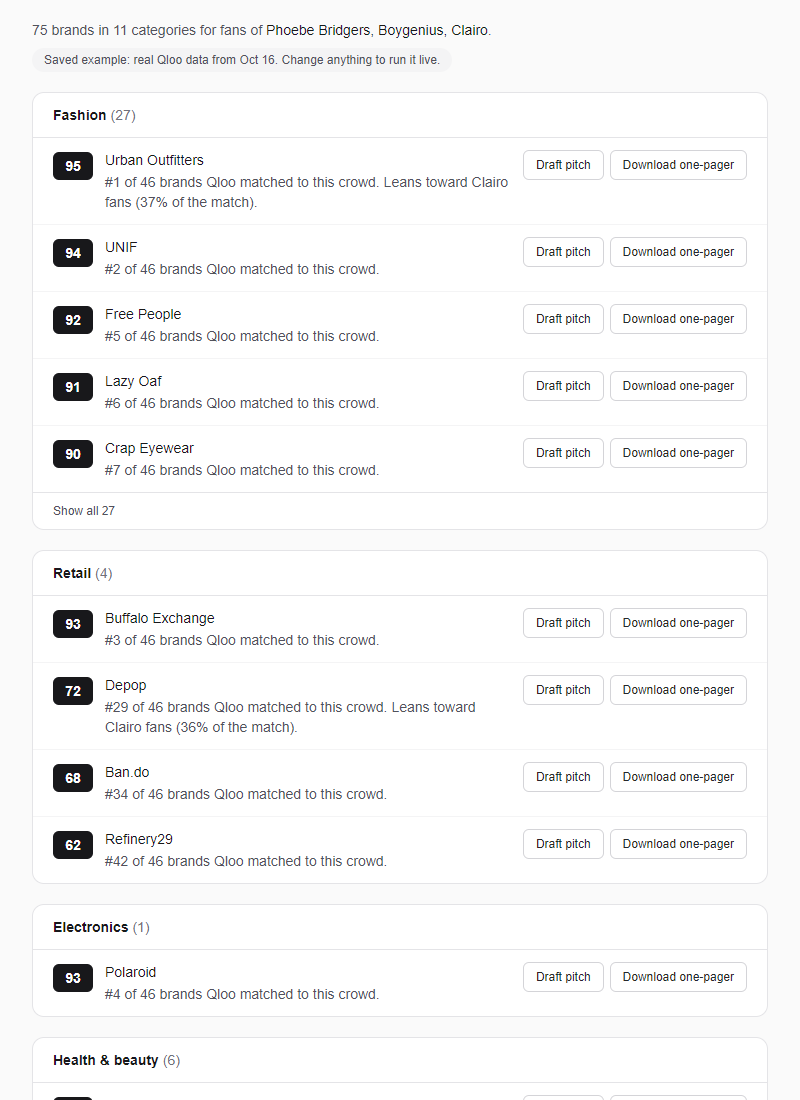
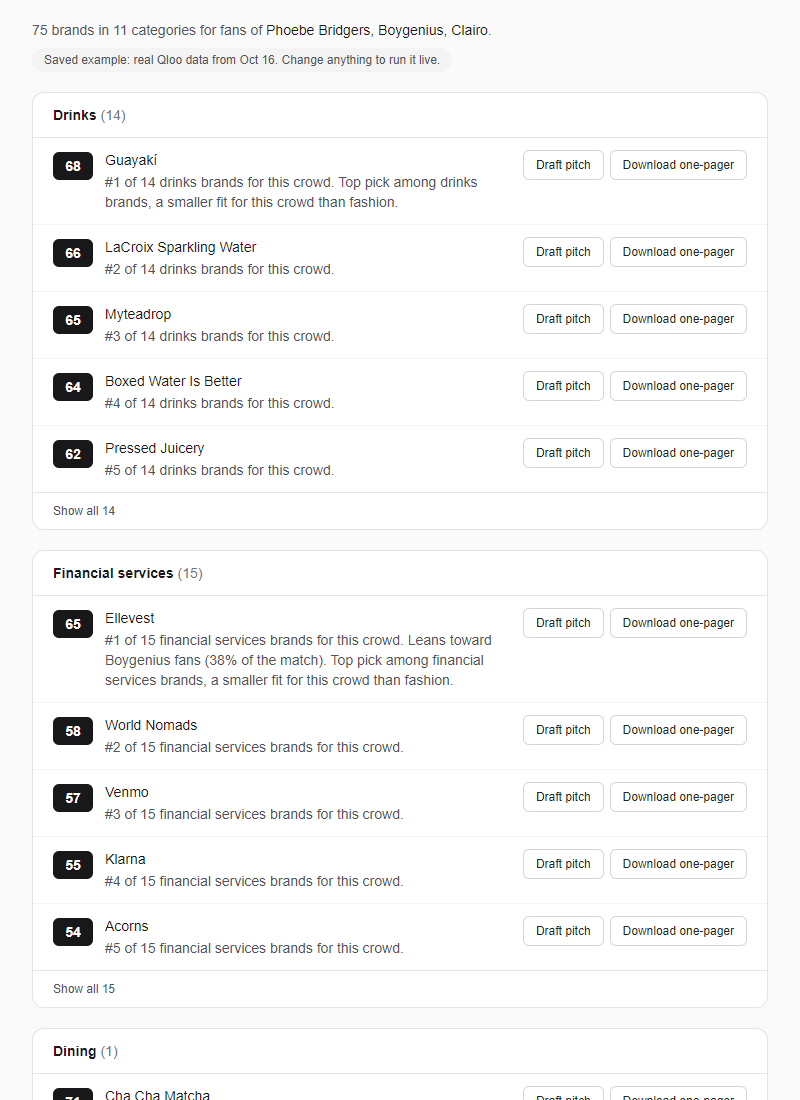
Nearby pitch for places without taste data; main sponsor categories first
- "Draft pitch" is back for places with little taste data. It sends the
  place's distance (brand.nearbyKm) and the pitch, template and DeepSeek
  prompt alike, talks about being close by, the crowd and the offer, with
  no Qloo or taste claim. The venue stays [venue]: the distance is from the
  search center, not the venue. Subject: "a sponsor spot just down the road".
- When every place has little taste data, the section subtitle no longer
  says "this crowd already goes to".
- Brand cards: Drinks, Beer, Spirits, Wine & spirits, Financial services,
  Dining, Fashion, Retail first, then the rest by best score, then Mobile
  app, Website, Entertainment, then Other. No brand is dropped. The
  "smaller fit" note still compares with the highest-scoring category.

diff --git a/src/lib/pitch.ts b/src/lib/pitch.ts
@@ -18,6 +18,12 @@ export interface PitchInput {
     reasonText: string;
     /** A national brand, or a local business near the event (cafe, shop, bar). */
     kind: "brand" | "place";
+    /**
+     * For a local place Qloo has little taste data for: its distance from the
+     * search center, km. Then the pitch makes no taste claim at all; it pitches
+     * being nearby. Null for everything else.
+     */
+    nearbyKm: number | null;
   };
   artists: string[];
   genre: string | null;
@@ -39,6 +45,11 @@ export interface PitchDraft {
   ms: number;
 }
 
+/** 0.6 -> "0.6 km", 12.4 -> "12 km". */
+function formatKm(km: number): string {
+  return `${km < 10 ? km.toFixed(1) : Math.round(km)} km`;
+}
+
 /** "Cafes" -> "cafe", "Clothing stores" -> "clothing store". */
 function placeNoun(categoryLabel: string): string {
   return categoryLabel.toLowerCase().replace(/s$/, "");
@@ -55,7 +66,9 @@ function facts(input: PitchInput): string[] {
     input.brand.kind === "place"
       ? `Sponsor: ${input.brand.name}, a local ${placeNoun(input.brand.categoryLabel)} near the event`
       : `Brand: ${input.brand.name} (${input.brand.categoryLabel})`,
-    `Why it fits, from Qloo taste data: ${input.brand.reasonText}`,
+    input.brand.nearbyKm !== null
+      ? `No taste match: Qloo has little taste data for this business. It is about ${formatKm(input.brand.nearbyKm)} from the center of ${input.city ?? "the city"}. Do not say or suggest that the crowd likes it.`
+      : `Why it fits, from Qloo taste data: ${input.brand.reasonText}`,
   ];
   if (input.eventName) lines.push(`Event name: ${input.eventName}`);
   if (input.city) lines.push(`City: ${input.city}`);
@@ -76,6 +89,7 @@ Rules:
 - Lead with why this brand fits this crowd, using the ranking given, and say it comes from Qloo taste data. Describe the "this crowd" as fans of the line-up.
 - Offer one or two concrete ways to take part, written as options in square brackets for the organizer to edit.
 - If the sponsor is a local business, say it is near the event and lead with in-kind options, such as [a discount for our attendees] or [your products at our table].
+- If the facts say "No taste match", do not mention Qloo or taste data and do not say or suggest that the crowd likes the business. Lead with how close it is, the crowd size and age, and what the sponsor gets.
 - End with one clear ask: a 15-minute call.
 - Under 170 words. Plain, friendly and specific. No hype, no emojis, no exclamation marks.
 
@@ -103,12 +117,18 @@ function templateDraft(input: PitchInput): { subject: string; body: string } {
     ? `We'd like to offer ${brand} [a table at the event] in return for [a discount for our attendees] or [your products for our crew]. Details are flexible.`
     : `We'd like to offer ${brand} [a booth or sampling spot] and [logo placement on our posters and social posts]. Details are flexible.`;
 
+  // No taste data: pitch being close by, never a taste match.
+  const why =
+    input.brand.nearbyKm !== null
+      ? `I'm writing to ${brand} because you're close by: about ${formatKm(input.brand.nearbyKm)} from the center of ${input.city ?? "[city]"}. Our venue is [venue].`
+      : `I'm writing to ${brand} specifically. Qloo's taste data shows that ${crowd} already like ${yours}: ${brand} ${rankClause(input.brand.reasonText)}`;
+
   const body = [
     "Hi [contact name],",
     "",
     `I'm organizing ${event}, ${input.admission?.phrase ?? "a show"} ${about.join(" ") || "[where and how big]"}${audience}.${lineUp}`,
     "",
-    `I'm writing to ${brand} specifically. Qloo's taste data shows that ${crowd} already like ${yours}: ${brand} ${rankClause(input.brand.reasonText)}`,
+    why,
     "",
     offer,
     "",
@@ -119,7 +139,11 @@ function templateDraft(input: PitchInput): { subject: string; body: string } {
     "[phone or email]",
   ].join("\n");
 
-  return { subject: `${brand} x ${event}: a crowd that already likes you`, body };
+  const subject =
+    input.brand.nearbyKm !== null
+      ? `${brand} x ${event}: a sponsor spot just down the road`
+      : `${brand} x ${event}: a crowd that already likes you`;
+  return { subject, body };
 }
 
 /** Turns the first sentence of reasonText into "ranks #2 of 15 beer brands for this crowd." */

diff --git a/src/components/local-sponsors.tsx b/src/components/local-sponsors.tsx
@@ -112,8 +112,9 @@ export function LocalSponsors({
           {data && <span className="font-normal text-zinc-500">({data.places.length})</span>}
         </h3>
         <p className="mt-0.5 text-xs text-zinc-500">
-          Local businesses this crowd already goes to. Easier to sign than national brands, often for
-          in-kind deals.
+          {data && data.places.length > 0 && data.places.every((place) => place.littleData)
+            ? "Local businesses near the event. Easier to sign than national brands, often for in-kind deals."
+            : "Local businesses this crowd already goes to. Easier to sign than national brands, often for in-kind deals."}
         </p>
       </div>
 
@@ -180,8 +181,8 @@ export function LocalSponsors({
             {listed.map((place) => {
               const selected = place.entityId === selectedId;
               const open = pitch.pitchFor === place.entityId;
-              // No pitch without taste data: it would claim a match Qloo does not show.
-              const pitchAllowed = !place.littleData && (place.categoryId !== "bars" || barsAllowed);
+              // Places with little taste data still get a pitch, about being nearby.
+              const pitchAllowed = place.categoryId !== "bars" || barsAllowed;
               return (
                 <li key={place.entityId} className={`px-5 py-3 hover:bg-zinc-50 ${selected ? "bg-zinc-50" : ""}`}>
                   <div className="flex flex-wrap items-start gap-x-3 gap-y-2 sm:flex-nowrap">
@@ -226,18 +227,13 @@ export function LocalSponsors({
                                 categoryLabel: place.categoryLabel,
                                 reasonText: place.reasonText,
                                 kind: "place",
+                                ...(place.littleData ? { nearbyKm: place.distanceKm } : {}),
                               },
                               pitchContext,
                             )
                           }
                           disabled={!pitchAllowed || (pitch.loading && open)}
-                          title={
-                            pitchAllowed
-                              ? undefined
-                              : place.littleData
-                                ? "Qloo has little taste data for this place, so there is no match to pitch."
-                                : "Bars need a 21+ event. Search again as 21+."
-                          }
+                          title={pitchAllowed ? undefined : "Bars need a 21+ event. Search again as 21+."}
                           className="rounded-md border border-zinc-300 bg-white px-3 py-1.5 text-xs font-medium text-zinc-800 hover:bg-zinc-100 disabled:opacity-50"
                         >
                           {pitch.loading && open ? "Writing…" : "Draft pitch"}

diff --git a/src/lib/qloo.ts b/src/lib/qloo.ts
@@ -199,6 +199,20 @@ const SPONSOR_CATEGORIES: {
 ];
 
 const GENERAL_TAKE = 50;
+
+/** Brand cards come in this order first: the categories that usually sponsor events. */
+const MAIN_SPONSOR_CATEGORIES = [
+  "drinks",
+  "beer",
+  "spirits",
+  "wine_and_spirits",
+  "financial_services",
+  "dining",
+  "fashion",
+  "retail",
+];
+/** Shown last (before "Other"): rarely a sponsor for a small show. */
+const LOW_CATEGORIES = ["mobile_app", "website", "entertainment"];
 const CATEGORY_TAKE = 15;
 
 // ---------- small helpers for reading untyped JSON ----------
@@ -802,16 +816,28 @@ export async function getSponsorBrands(
     brands: brands.sort((a, b) => b.fitScore - a.fitScore || a.rank - b.rank),
   }));
 
-  // Strongest category first; "Other" always last.
-  result.sort((a, b) => {
-    if (a.id === "other") return 1;
-    if (b.id === "other") return -1;
-    return b.brands[0].fitScore - a.brands[0].fitScore || b.brands.length - a.brands.length;
-  });
-
   // A category's #1 can still be a modest fit. Say so, instead of letting
-  // "#1 of 15" read like a perfect match next to a lower score.
-  const strongest = result.find((category) => category.id !== "other");
+  // "#1 of 15" read like a perfect match next to a lower score. Compared with
+  // the category whose best brand scores highest, whatever the card order.
+  const strongest = result
+    .filter((category) => category.id !== "other")
+    .sort((a, b) => b.brands[0].fitScore - a.brands[0].fitScore)[0];
+
+  // Card order: the categories that usually sponsor events first, in a fixed
+  // order; then the rest by their best score; media-like categories and
+  // "Other" last. Nothing is dropped.
+  const groupOf = (id: string) => {
+    const main = MAIN_SPONSOR_CATEGORIES.indexOf(id);
+    if (main >= 0) return main;
+    if (id === "other") return 1000;
+    return LOW_CATEGORIES.includes(id) ? 999 : 500;
+  };
+  result.sort(
+    (a, b) =>
+      groupOf(a.id) - groupOf(b.id) ||
+      b.brands[0].fitScore - a.brands[0].fitScore ||
+      b.brands.length - a.brands.length,
+  );
   for (const category of result) {
     const top = category.brands[0];
     if (!strongest || category === strongest || category.id === "other" || top.fitScore >= WEAK_TOP_SCORE) continue;

diff --git a/src/app/api/pitch/route.ts b/src/app/api/pitch/route.ts
@@ -1,7 +1,9 @@
 // POST /api/pitch
 // Body (JSON):
-//   brand: { name, categoryLabel, reasonText, kind?: "brand" | "place" }
-//          one brand from /api/brands, or one place from /api/places (kind "place")
+//   brand: { name, categoryLabel, reasonText, kind?: "brand" | "place", nearbyKm? }
+//          one brand from /api/brands, or one place from /api/places (kind "place").
+//          nearbyKm: only for a place with little taste data; the pitch then
+//          pitches being nearby and makes no taste claim.
 //   artists?: string[]            line-up names
 //   event?: { name?, city?, crowdSize?, age?, admission?, genre?, organizer? }
 //
@@ -54,6 +56,14 @@ export async function POST(request: Request) {
   }
   const kind = body.brand.kind ?? "brand";
   if (kind !== "brand" && kind !== "place") return bad('brand.kind must be "brand" or "place"');
+  let nearbyKm: number | null = null;
+  if (body.brand.nearbyKm !== undefined && body.brand.nearbyKm !== null) {
+    const value = Number(body.brand.nearbyKm);
+    if (kind !== "place" || !Number.isFinite(value) || value < 0 || value > 100) {
+      return bad("brand.nearbyKm must be a distance in km, for a place only");
+    }
+    nearbyKm = value;
+  }
 
   const artists: string[] = [];
   if (body.artists !== undefined) {
@@ -92,7 +102,7 @@ export async function POST(request: Request) {
   }
 
   const draft = await writePitch({
-    brand: { name, categoryLabel, reasonText, kind },
+    brand: { name, categoryLabel, reasonText, kind, nearbyKm },
     artists,
     genre: cleanText(event.genre, 60),
     eventName: cleanText(event.name, 100),

diff --git a/src/components/pitch-draft.tsx b/src/components/pitch-draft.tsx
@@ -31,6 +31,8 @@ export interface PitchTarget {
   categoryLabel: string;
   reasonText: string;
   kind: "brand" | "place";
+  /** For a place Qloo has little taste data for: its distance, km. */
+  nearbyKm?: number;
 }
 
 export function usePitch() {

diff --git a/CLAUDE.md b/CLAUDE.md
@@ -48,7 +48,8 @@ Built for the Qloo Agentic Hackathon (Devpost). Rule from the organizers: if the
 - The pitch only uses facts it was given; unknowns go in [square brackets].
 - Sponsor Fit Score, our own score (say so in the UI), capped at 95; never show raw affinity numbers.
   - Brands: relative to the other brands of the same search. score = 40 + 55 x (0.8 x affinity percentile among all brands of the search + 0.2 x rank in its list). A fixed affinity scale failed: genre signals push affinity to 0.97-1.00 and every genre search got 95s (stage 7, 18 Oct). A category's #1 brand under 80 gets a note that the category is a smaller fit.
-  - Local places: same relative formula, over only the places with taste data; with fewer than 5 of those, a fixed scale instead (80% affinity 0.65-0.96 + 20% rank). Places at Qloo's default affinity (exactly 0.7649962877984056) or below get no score: "Nearby · little taste data", listed after scored places by distance, no pitch.
+  - Local places: same relative formula, over only the places with taste data; with fewer than 5 of those, a fixed scale instead (80% affinity 0.65-0.96 + 20% rank). Places at Qloo's default affinity (exactly 0.7649962877984056) or below get no score: "Nearby · little taste data", listed after scored places by distance. Their pitch talks about being nearby (distance from the search center), crowd and offer, and never claims the crowd likes them.
+- Brand cards: Drinks, Beer, Spirits, Wine & spirits, Financial services, Dining, Fashion, Retail first (fixed order), then other categories by their best score, then Mobile app, Website, Entertainment, then Other. Ranks ("#3 of 38") are counted after all filters.
 - Not sponsors, dropped in the server: NGO "brands", and brands tagged sports_organization, academic, cultural_arts or entertainment:media:news_and_politics.
 
 ## Rules for working in this repo

diff --git a/README.md b/README.md
@@ -42,7 +42,7 @@ Every Qloo call is listed in the app under "How the agent got this", with its re
    - Qloo's audience segments (`urn:audience`) are never used or shown.
 5. **Score and reason.** The Sponsor Fit Score is our own score, not a Qloo number. It is never above 95.
    - **Brands** are compared with the other brands for the same crowd. Score = 40 + 55 × (0.8 × the brand's affinity percentile among all brands of the search + 0.2 × its rank in its list). Every category is in one pool, so a weak category's #1 does not look perfect, and it gets a note saying the category is a smaller fit.
-   - **Local places** are scored the same way, against the other places of the search, but only places Qloo has taste data for take part. With fewer than 5 such places, they use a fixed scale instead (80% affinity, 20% rank). When Qloo has little taste data for a place (its affinity sits at Qloo's default value), the place gets no score. It is listed after the scored places, nearest first, as "Nearby · little taste data".
+   - **Local places** are scored the same way, against the other places of the search, but only places Qloo has taste data for take part. With fewer than 5 such places, they use a fixed scale instead (80% affinity, 20% rank). When Qloo has little taste data for a place (its affinity sits at Qloo's default value), the place gets no score. It is listed after the scored places, nearest first, as "Nearby · little taste data". Its pitch email talks about being nearby, the crowd and the offer, and never says the crowd likes the place.
 
    The reason starts from the rank. It names an artist only when that artist's share of Qloo's explainability is clearly higher than the others'.
 6. **Local places.** `GET /v2/insights` with:
